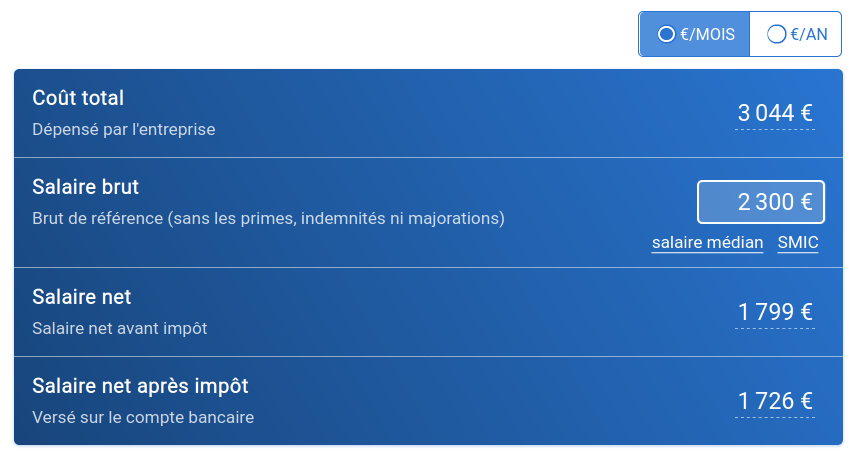
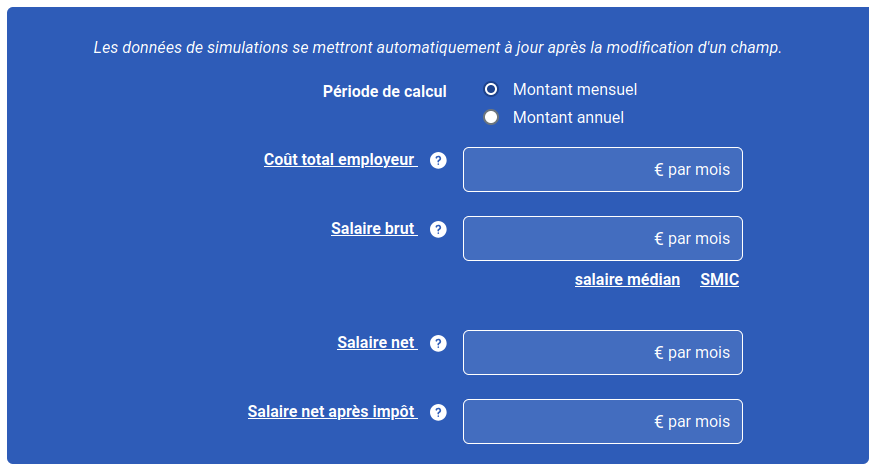
feat: met à jour les images de prévisualisation des simulateurs

diff --git a/site/source/pages/simulateurs/entreprise-individuelle/config.ts b/site/source/pages/simulateurs/entreprise-individuelle/config.ts
@@ -3,7 +3,7 @@ import { SeoExplanations } from '@/pages/simulateurs/entreprise-individuelle/Seo
 
 import { config } from '../_configs/config'
 import { SimulatorsDataParams } from '../_configs/types'
-import AutoEntrepreneurPreview from '../_images/AutoEntrepreneurPreview.png'
+import RémunérationIndépendantPreview from '../indépendant/RémunérationIndépendantPreview.png'
 import { configEntrepriseIndividuelle } from './simulationConfig'
 
 export function entrepriseIndividuelleConfig({
@@ -36,7 +36,7 @@ export function entrepriseIndividuelleConfig({
 				'pages.simulateurs.ei.meta.titre',
 				'Entreprise individuelle (EI) : simulateur de revenus'
 			),
-			ogImage: AutoEntrepreneurPreview,
+			ogImage: RémunérationIndépendantPreview,
 		},
 		pathId: 'simulateurs.entreprise-individuelle',
 		shortName: t('pages.simulateurs.ei.shortname', 'Entreprise Individuelle'),

diff --git a/site/source/pages/simulateurs/location-de-meublé/config.ts b/site/source/pages/simulateurs/location-de-meublé/config.ts
@@ -1,6 +1,5 @@
 import { config } from '@/pages/simulateurs/_configs/config'
 import { SimulatorsDataParams } from '@/pages/simulateurs/_configs/types'
-import AutoEntrepreneurPreview from '@/pages/simulateurs/_images/AutoEntrepreneurPreview.png'
 import LocationDeMeublé from '@/pages/simulateurs/location-de-meublé/LocationDeMeublé'
 
 export function locationDeMeubleConfig({ t, sitePaths }: SimulatorsDataParams) {
@@ -41,7 +40,6 @@ export function locationDeMeubleConfig({ t, sitePaths }: SimulatorsDataParams) {
 				'pages.simulateurs.location-de-logement-meublé.meta.ogDescription',
 				'Déterminez si vous devez vous affilier à la sécurité sociale pour vos revenus de location meublée et découvrez les régimes applicables.'
 			),
-			ogImage: AutoEntrepreneurPreview,
 		},
 	} as const)
 }

diff --git a/site/source/pages/simulateurs/eurl/config.ts b/site/source/pages/simulateurs/eurl/config.ts
@@ -1,6 +1,6 @@
 import { config } from '../_configs/config'
 import { SimulatorsDataParams } from '../_configs/types'
-import RémunérationSASUPreview from '../_images/RémunérationSASUPreview.png'
+import RémunérationIndépendantPreview from '../indépendant/RémunérationIndépendantPreview.png'
 import { EURL } from './EURL'
 import { configEurl } from './simulationConfig'
 
@@ -31,7 +31,7 @@ export function eurlConfig({ t, sitePaths }: SimulatorsDataParams) {
 				'pages.simulateurs.eurl.meta.titre',
 				'EURL : simulateur de revenus pour dirigeant'
 			),
-			ogImage: RémunérationSASUPreview,
+			ogImage: RémunérationIndépendantPreview,
 		},
 		pathId: 'simulateurs.eurl',
 		shortName: t('pages.simulateurs.eurl.shortname', 'EURL'),

diff --git a/site/source/pages/simulateurs/eirl/config.ts b/site/source/pages/simulateurs/eirl/config.ts
@@ -1,6 +1,5 @@
 import { config } from '../_configs/config'
 import { SimulatorsDataParams } from '../_configs/types'
-import AutoEntrepreneurPreview from '../_images/AutoEntrepreneurPreview.png'
 import { AvertissementEIRL } from './Avertissement'
 import { EIRL } from './EIRL'
 import { configEirl } from './simulationConfig'
@@ -32,7 +31,6 @@ export function eirlConfig({ t, sitePaths }: SimulatorsDataParams) {
 				'pages.simulateurs.eirl.meta.titre',
 				'EIRL : simulateur de revenus pour dirigeant'
 			),
-			ogImage: AutoEntrepreneurPreview,
 		},
 		pathId: 'simulateurs.eirl',
 		shortName: t('pages.simulateurs.eirl.shortname', 'EIRL'),

diff --git a/site/source/pages/simulateurs/auto-entrepreneur/config.ts b/site/source/pages/simulateurs/auto-entrepreneur/config.ts
@@ -2,8 +2,8 @@ import { SeoExplanations } from '@/pages/simulateurs/auto-entrepreneur/SeoExplan
 
 import { config } from '../_configs/config'
 import { SimulatorsDataParams } from '../_configs/types'
-import AutoEntrepreneurPreview from '../_images/AutoEntrepreneurPreview.png'
 import { AutoEntrepreneur } from './AutoEntrepreneur'
+import AutoEntrepreneurPreview from './AutoEntrepreneurPreview.png'
 import { configAutoEntrepreneur } from './simulationConfig'
 
 export function autoEntrepreneurConfig({ t, sitePaths }: SimulatorsDataParams) {

diff --git a/site/source/pages/simulateurs/sasu/config.ts b/site/source/pages/simulateurs/sasu/config.ts
@@ -1,6 +1,6 @@
 import { config } from '../_configs/config'
 import { SimulatorsDataParams } from '../_configs/types'
-import RémunérationSASUPreview from '../_images/RémunérationSASUPreview.png'
+import RémunérationSASUPreview from './RémunérationSASUPreview.png'
 import { SASUSimulation, SeoExplanations } from './SASU'
 import { configSASU } from './simulationConfig'
 
